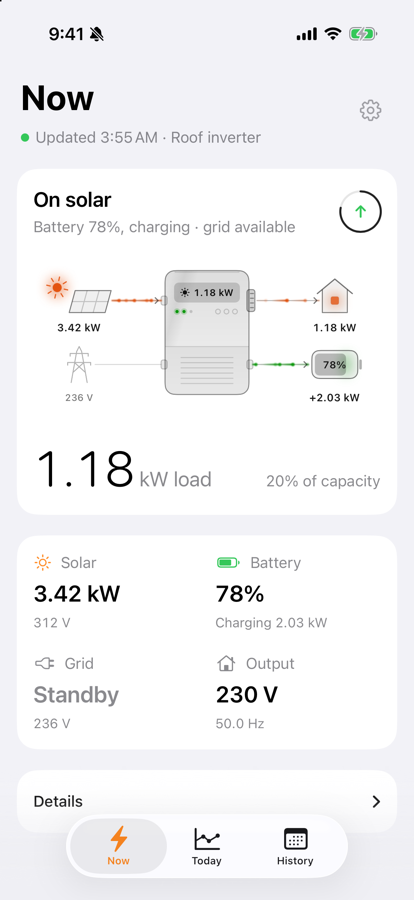
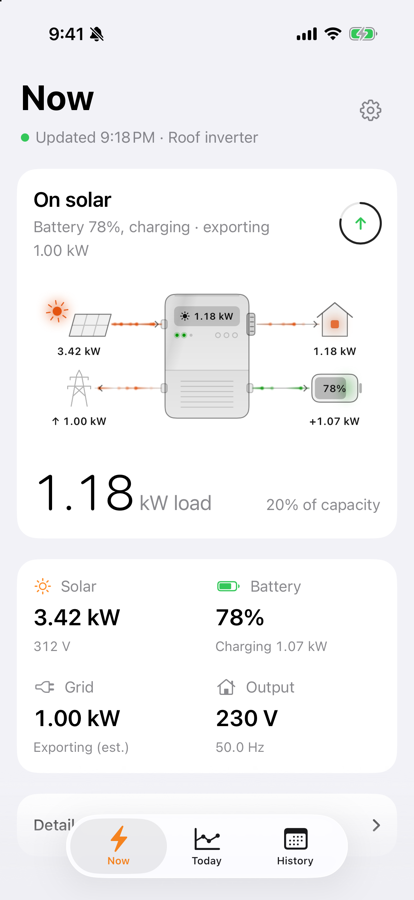
Give the README a section for each of the Mac, iOS and Android apps
Each has its own screenshots, requirements and build steps. The Mac details from the old Mac README move to docs/macos.md, and the iOS and Android screenshots are retaken with the new icons and grid export.

diff --git a/README.md b/README.md
@@ -1,10 +1,61 @@
-# Inverterly for Android and iOS
+# Inverterly
 
-> **Fork notice:** Inverterly is a personal fork of [InverterBar](https://github.com/ahkamboh/inverterbar) by Ali Hamza Kamboh, tailored for my own use. This branch adds an Android app and an iOS app. Neither is on a store. The iOS app you build onto your own device with Xcode. For Android there is a signed APK on the [Releases page](https://github.com/umarz317/inverterly/releases) to install directly (Android shows an "unknown source" prompt because it is not from the Play Store), or you can build it with Gradle. This fork is not affiliated with or supported by the original author; please report issues with it here, not upstream.
+> **Fork notice:** Inverterly is a personal fork of [InverterBar](https://github.com/ahkamboh/inverterbar) by Ali Hamza Kamboh, tailored for my own use. It adds in-app sign-in, an inverter switcher for accounts with more than one, daily and monthly solar, grid and load history, grid export estimates, and an iOS app and an Android app next to the original Mac app. The Mac app's release builds are signed with my Developer ID and notarized by me, [umarz317](https://github.com/umarz317). The iOS app is not on the App Store: you build it onto your own device. The Android app is not on the Play Store: there is a signed APK on the Releases page. This fork is not affiliated with or supported by the original author; please report issues with it here, not upstream.
 
-An Android app (Android 8 or later) and an iOS app (iOS 17 or later) that show a Voltronic-type solar inverter live: what the panels are making, what the house is drawing, where the battery stands, and whether the grid is up.
+Apps that show a Voltronic-type solar inverter live: what the panels are making, what the house is drawing, where the battery stands, and whether the grid is up. This repository holds all three, built from the same cloud client in Swift and Kotlin:
 
-### Android
+| | Platform | What it is | Install | Details |
+|---|---|---|---|---|
+| [macOS](#macos) | macOS 14+ | A menu bar panel | Build with a script, or the DMG on [Releases](https://github.com/umarz317/inverterly/releases) | [docs/macos.md](docs/macos.md) |
+| [iOS](#ios) | iOS 17+ | A three-tab phone app | Build onto your device with Xcode | [iOS/README.md](iOS/README.md) |
+| [Android](#android) | Android 8+ | A three-tab phone app | Signed APK on [Releases](https://github.com/umarz317/inverterly/releases), or build with Gradle | [android/README.md](android/README.md) |
+
+These inverters are sold as Axpert, MPP Solar and under many other names. They all report to the vendor cloud read by the WatchPower, SolarPower and DessMonitor phone apps, and Inverterly reads that cloud with the account you already have.
+
+It only reads. No code path in any app can change an inverter setting. This is an unofficial project, not affiliated with Voltronic, DessMonitor, ShineMonitor or any inverter brand.
+
+Every app needs an inverter with a Wi-Fi logger that already reports to DessMonitor, WatchPower or SolarPower, and the login you use in that phone app.
+
+## macOS
+
+<p align="center">
+  <img src="docs/inverterly.gif" width="380" alt="The Inverterly panel on the Mac, on solar, on battery and on grid (made-up readings)">
+</p>
+
+A menu bar item that shows the battery percent, load or solar, and drops a panel with the animated energy flow, today's chart, daily and monthly history, and a details list.
+
+**Requirements:** macOS 14 or later and Xcode's command line tools.
+
+**Build and run**, from the repository root:
+
+```bash
+./Scripts/build-app.sh install     # builds Inverterly.app, copies it to ~/Applications and opens it
+swift run Inverterly               # or run it straight from source
+```
+
+Without `install` the script only builds into `dist/`. A signed and notarized DMG of each Mac release (the `v0.1.x` releases) is on the [Releases page](https://github.com/umarz317/inverterly/releases); `./Scripts/make-dmg.sh` builds one yourself.
+
+Signing in, the account file, options and history are in [docs/macos.md](docs/macos.md).
+
+## iOS
+
+<p align="center">
+  <img src="docs/ios/now.png" width="240" alt="The iOS Now tab: live reading, energy flow and tiles (made-up readings)">
+  <img src="docs/ios/today.png" width="240" alt="The iOS Today tab: energy mix, power chart and battery (made-up readings)">
+  <img src="docs/ios/history.png" width="240" alt="The iOS History tab: monthly mix, a bar per day and the list (made-up readings)">
+</p>
+
+**Requirements:** iOS 17 or later, Xcode 16 or later, and an Apple development team for signing. A free personal team works; its builds stop opening after seven days and have to be installed again.
+
+**Build and run:** open `iOS/Inverterly.xcodeproj`, choose the **Inverterly iOS** scheme, set your own team under Signing & Capabilities (the project ships with it blank) and run it on a simulator or your device. With a free personal team, also change the bundle identifier to your own.
+
+```bash
+open iOS/Inverterly.xcodeproj
+```
+
+The iOS app builds the same Swift package as the Mac app (`InverterCore` and `InverterUI`), so `swift build` and `swift test` at the repository root cover its shared code too. Installing on a real device, from the command line, and the debug demo mode are in [iOS/README.md](iOS/README.md).
+
+## Android
 
 <p align="center">
   <img src="docs/android/now.png" width="240" alt="The Android Now tab: live reading, energy flow and tiles (made-up readings)">
@@ -12,82 +63,83 @@ An Android app (Android 8 or later) and an iOS app (iOS 17 or later) that show a
   <img src="docs/android/history.png" width="240" alt="The Android History tab: monthly mix, a bar per day and the list (made-up readings)">
 </p>
 
-### iOS
+**Requirements:** Android 8.0 or later. To build it, JDK 17 and the Android SDK (platform 36); Android Studio has both.
 
-<p align="center">
-  <img src="docs/ios/inverterly-ios.gif" width="260" alt="The Inverterly iOS app: Now, Today and History tabs (made-up readings)">
-</p>
+**Install the APK:** each Android release (`android-v<version>`) on the [Releases page](https://github.com/umarz317/inverterly/releases) has a signed `Inverterly-<version>.apk`. Open it on the phone and allow installs from that source when Android asks. Play Protect may say it comes from an unknown developer, because it is not on the Play Store; "Install anyway" continues. A newer version installs over an older one and keeps the login.
 
-These inverters are sold as Axpert, MPP Solar and under many other names. They all report to the vendor cloud read by the WatchPower, SolarPower and DessMonitor phone apps, and Inverterly reads that cloud with the account you already have.
+**Build and run:** open the `android` folder in Android Studio and run the **app** configuration, or with a phone connected:
 
-It only reads. No code path in the app can change an inverter setting. This is an unofficial project, not affiliated with Voltronic, DessMonitor, ShineMonitor or any inverter brand.
+```bash
+cd android
+./gradlew :app:installDebug
+```
 
-## What it shows
+The Android app is a Kotlin port of the Swift code, with its own tests (`./gradlew :app:testDebugUnitTest`). Release signing, the demo mode and the raw readings screen are in [android/README.md](android/README.md).
+
+## What the apps show
 
 - **Now**: whether the house runs on solar, battery or grid, the animated energy flow, the load against the inverter's rating, and a tile each for solar, battery, grid and output. Details (voltages, currents, frequency, logger status) are underneath.
-- **Today**: how much of today's energy came from the sun, with solar, grid and load totals; the day's power curve, which you can drag across to read any moment; the day's peaks; and the battery's charge through the day.
+- **Today**: how much of today's energy came from the sun, with solar, grid, load and export totals; the day's power curve, which you can drag across to read any moment; and the battery's charge through the day.
 - **History**: Days for this month or Months going back, with the period's energy mix, a bar per day or month (drag to pick one), and the list.
-- **Settings** (the gear): pick the inverter when the account has more than one, choose the illustration (iOS), and sign out.
+- **Settings**: pick the inverter when the account has more than one, choose the illustration, and sign out.
 
-<p align="center">
-  <img src="docs/ios/now.png" width="240" alt="The Now tab (made-up readings)">
-  <img src="docs/ios/today.png" width="240" alt="The Today tab (made-up readings)">
-  <img src="docs/ios/history.png" width="240" alt="The History tab (made-up readings)">
-</p>
-
-The dot under each title is green while readings are fresh, orange once the logger has gone quiet, and grey before the first reading. Pull down on any tab to refresh. The app reads while it is in front and stops when it is not; it has no background refresh or widgets.
-
-## Requirements
-
-- Android 8.0 or later, JDK 17 and the Android SDK to build the Android app, or
-- iOS 17 or later.
-- Xcode 16 or later to build it.
-- An Apple development team for signing. A free personal team works; its builds stop opening after seven days and have to be installed again.
-- An inverter with a Wi-Fi logger that already reports to DessMonitor, WatchPower or SolarPower, and the login you use in that phone app.
-
-## Build and run
-
-**Android:** open the `android` folder in Android Studio and run it, or `cd android && ./gradlew :app:installDebug` with a phone connected. See [android/README.md](android/README.md).
-
-**iOS:** open `iOS/Inverterly.xcodeproj`, choose the **Inverterly iOS** scheme, set your own signing team under Signing & Capabilities (the project ships with it blank) and run it on a simulator or your device. With a free personal team, also change the bundle identifier to your own.
-
-To install on a real device, with every step and fix, see [iOS/README.md](iOS/README.md).
+The phone apps show these as three tabs; the Mac panel puts them in one panel with sections that open in place. The dot under each phone title is green while readings are fresh, orange once the logger has gone quiet, and grey before the first reading. The phone apps read while they are in front and stop when they are not; there is no background refresh or widget.
 
 ## Sign in
 
-Use the username and password from your inverter's monitoring phone app. The app tries each of the three cloud identities in turn and keeps the one that works.
+Use the username and password from your inverter's monitoring phone app. Each app tries the three cloud identities in turn and keeps the one that works.
 
-The password goes into the iOS Keychain (on Android, an Android Keystore key encrypts it). The username and app identity are saved in the app's own container, and the login session next to it. With **Remember me** off, the account, session and saved history are removed the next time the app is launched, so it asks again. The password never appears in an error message or a log.
+- **Mac:** the password goes into the macOS Keychain, or into a private `.env` file if you turn that off. See [docs/macos.md](docs/macos.md).
+- **iOS:** the password goes into the iOS Keychain. The username and app identity are saved in the app's own container, with the login session next to it.
+- **Android:** the password is encrypted with a key held in the Android Keystore; the rest sits in the app's private storage, which is excluded from backup.
+
+On the phones, with **Remember me** off, the account, session and saved history are removed the next time the app is launched, so it asks again. The password never appears in an error message or a log.
 
 ## How fresh the numbers are
 
-The logger reports to the cloud about every five minutes, so that is the real resolution. The header shows when it last reported, and a banner appears after fifteen quiet minutes. The vendor's server can take ten seconds or more to answer, so the first reading after launch may be slow.
+The logger reports to the cloud about every five minutes, so that is the real resolution. The header shows when it last reported, and a banner appears after fifteen quiet minutes. The vendor's server can take ten seconds or more to answer, so the first reading after launch may be slow; the phone apps show a loading screen until it arrives.
 
-Each day in History is added up from the logger's 5-minute readings, which matches the cloud's own daily solar figure to within about 1%. A finished day is read once and kept on the phone; only today is read again.
+Each day in History is added up from the logger's 5-minute readings, which matches the cloud's own daily solar figure to within about 1%. A finished day is read once and kept on the device; only today is read again.
 
-Grid power is not in the vendor's data for this kind of inverter. The app estimates it as load plus battery charging, minus solar and battery discharge.
+Grid power is not in the vendor's data for this kind of inverter. The apps estimate it as load plus battery charging, minus solar and battery discharge.
 
 ## Grid export
 
-An inverter that reports itself as a "Grid Tie" can send surplus power to the grid, but the cloud has no export reading for it: its grid power is always 0. So the app estimates it as the power the panels make beyond the load and the battery's charging, less about 5% for conversion losses, and only with grid voltage present. A small surplus (60 W or less) is treated as measurement error. Summed over the logger's 5-minute readings it gives kWh exported per day and month.
+An inverter that reports itself as a "Grid Tie" can send surplus power to the grid, but the cloud has no export reading for it: its grid power is always 0. So the apps estimate it as the power the panels make beyond the load and the battery's charging, less about 5% for conversion losses, and only with grid voltage present. A small surplus (60 W or less) is treated as measurement error. Summed over the logger's 5-minute readings it gives kWh exported per day and month.
 
 It shows as an exporting Grid tile and a reversed grid flow on Now, an Export total on Today and History, and Export on each History row. Models that report "Off Grid Tie", or no type at all, never show export. It is an estimate: check it against your meter before relying on it for billing. Days saved before this was added are read from the cloud once more to fill it in.
 
 ## Documentation
 
-- [android/README.md](android/README.md): the Android app, built from the same cloud client in Kotlin.
-- [iOS/README.md](iOS/README.md): installing on your device, demo mode, and how the app is built.
-- [docs/API.md](docs/API.md): the cloud API: hosts, login and request signing, each route the app uses, and the settings routes it deliberately does not send.
+- [docs/macos.md](docs/macos.md): the Mac app: install, the account file, options and history.
+- [iOS/README.md](iOS/README.md): installing on your iPhone, demo mode, and how the app is built.
+- [android/README.md](android/README.md): the Android app, release signing and the Kotlin port.
+- [docs/API.md](docs/API.md): the cloud API: hosts, login and request signing, each route the apps use, and the settings routes they deliberately do not send.
 - [docs/LIBRARY.md](docs/LIBRARY.md): using `InverterCore` from your own Swift code.
+- [docs/examples/read_inverter.py](docs/examples/read_inverter.py): a 60-line read-only Python client.
 
 ## Code layout
 
-- `iOS`: the Xcode project and thin app shell. See [iOS/README.md](iOS/README.md).
-- `Sources/InverterUI/Phone`: the iOS screens, compiled only for iOS.
-- `Sources/InverterUI`: the store, illustrations and shared views.
-- `Sources/InverterCore`: cloud client, request signing, parsing and the `EnergySnapshot` model. No UI.
+```
+Sources/InverterCore      cloud client, request signing, parsing, the EnergySnapshot model (Swift, no UI)
+Sources/InverterUI        shared views and illustrations; the Mac panel and status item
+Sources/InverterUI/Phone  the iOS screens, compiled only for iOS
+Sources/Inverterly        the Mac app's entry point
+Sources/InverterProbe     prints one live reading from the terminal
+Scripts                   builds the Mac app and its DMG
+iOS                       the Xcode project and thin app shell for iOS
+android                   the Android app (Kotlin, Jetpack Compose)
+Tests, Tools, docs        Swift tests, helper scripts, documentation and screenshots
+```
 
-Run the tests with `swift test`. The fixtures are real answers from one inverter with serial numbers and ids replaced. `Tools/scan-secrets.py` checks that none of your account's values has ended up in the repository; run it before pushing a fork.
+## Tests
+
+| App | Command | Covers |
+|---|---|---|
+| macOS and iOS (shared Swift) | `swift test` | cloud client, signing, parsing, history, grid export, the read-only guard, and the panel's state |
+| Android | `cd android && ./gradlew :app:testDebugUnitTest` | the Kotlin port: signing vectors, parser, export, the read-only guard |
+
+The fixtures are real answers from one inverter with serial numbers and ids replaced. `Tools/scan-secrets.py` checks that none of your account's values (username, password, serials, session token) has ended up in the repository; run it before pushing a fork.
 
 ## Licence
 

diff --git a/docs/macos.md b/docs/macos.md
@@ -1,0 +1,123 @@
+# Inverterly for macOS
+
+The menu bar app. It shows the same Voltronic-type inverter cloud as the iOS and Android apps, as a panel that drops from the menu bar.
+
+<p align="center">
+  <img src="inverterly.gif" width="380" alt="The Inverterly panel on solar, on battery and on grid (made-up readings)">
+</p>
+
+The menu bar shows the battery percent, load, solar, or solar and grid together, each with its own icon; or just the app's glyph, a sun over a wave that turns to a moon when the panels make nothing. Click it for an animated picture of the energy flow, the load, tiles for solar, battery, grid and output, today's chart of solar, grid and load with totals so far, daily and monthly history, and a details list.
+
+Like the other apps it only reads. No code path can change an inverter setting.
+
+## Requirements
+
+- macOS 14 or later, and Xcode's command line tools to build it.
+- An inverter with a Wi-Fi logger that already reports to DessMonitor, WatchPower or SolarPower.
+- The login you use in that phone app.
+
+## Install
+
+From the repository root:
+
+```bash
+./Scripts/build-app.sh install
+```
+
+This builds a release binary, wraps it as `Inverterly.app`, copies it to `~/Applications` and opens it. Without `install` it only builds into `dist/`. The app is signed ad hoc, which is enough to run on the Mac that built it.
+
+A signed and notarized `Inverterly-<version>.dmg` for each Mac release is on the [Releases page](https://github.com/umarz317/inverterly/releases) (the `v0.1.x` releases).
+
+### Release DMG
+
+```bash
+./Scripts/make-dmg.sh
+```
+
+This builds `dist/Inverterly-<version>.dmg` with the app signed by your Developer ID Application identity (the first one in your keychain, or `INVERTERLY_CODESIGN_IDENTITY`) using the hardened runtime, and signs the DMG too. To notarize and staple it, store notarytool credentials once with `xcrun notarytool store-credentials <name>` and run with `INVERTERLY_NOTARY_PROFILE=<name>`. Without notarization, other Macs show a Gatekeeper warning on first open.
+
+## Run from source
+
+```bash
+swift run Inverterly
+```
+
+Print one live reading in the terminal, with the inverters on the account and yesterday's and today's totals:
+
+```bash
+swift run InverterProbe
+```
+
+## Sign in
+
+Click the menu bar item and enter your phone-app username and password. Inverterly works out which of the three apps the account belongs to and starts reading.
+
+To switch accounts, open the three-dot menu and choose **Sign out**.
+
+With **Save password in Keychain** on (the default), the password goes into your macOS Keychain and `~/.config/inverterly/.env` keeps only the username and app. With it off, the password is saved in that file, readable only by you. A password in the file wins; with none there, the app looks in the Keychain. The login session is kept in `~/Library/Application Support/Inverterly/session.json`, also private. The password never appears in an error message or a log. Sign out removes the account from both the file and the Keychain.
+
+Coming from InverterBar: on first launch Inverterly moves `~/.config/inverterbar` and `~/Library/Application Support/InverterBar` to the new names, so the saved login and history carry over. `INVERTERBAR_ENV` is still read. Settings from the menu (illustration, menu bar choice, open at login) start fresh.
+
+### Configure by hand
+
+You can write the file yourself instead (from the repository root):
+
+```bash
+mkdir -p ~/.config/inverterly
+cp .env.example ~/.config/inverterly/.env
+chmod 600 ~/.config/inverterly/.env
+```
+
+```
+SHINEMONITOR_USER=your-login
+SHINEMONITOR_PASSWORD=your-password
+SHINEMONITOR_APP=dessmonitor
+```
+
+- `SHINEMONITOR_PASSWORD` can be left out if the password is in the Keychain (service `com.loopbreak.inverterly`, account = your username).
+- `SHINEMONITOR_APP` is `dessmonitor`, `watchpower` or `solarpower`. WatchPower and DessMonitor use the DessMonitor server over https and have been checked with live accounts. SolarPower uses plain http and has not been tested.
+- `SHINEMONITOR_BASE_URL=http://android.shinemonitor.com/public/` selects the legacy server for an older WatchPower account.
+- `SHINEMONITOR_PN` and `SHINEMONITOR_SN` choose the starting device when the account has more than one; the Inverter menu overrides them.
+
+The app looks for the file in this order:
+
+1. the path in the `INVERTERLY_ENV` environment variable
+2. the path saved with `defaults write com.loopbreak.inverterly envPath "/path/to/.env"`
+3. `~/.config/inverterly/.env`
+4. `~/Documents/inverter-control/.env`, if the file above does not exist
+
+If the file is in Documents, Desktop or Downloads, macOS asks once whether Inverterly may read that folder. If you say no, the panel reports that it cannot find the file; change the answer in System Settings under Privacy & Security, Files and Folders.
+
+## History
+
+Open **History** in the panel for how much solar you made, how much came from the grid and how much you used (the load), in kWh. **Days** lists each day of this month with a month total; **Months** adds up every month the cloud still has.
+
+Each day is added up from the logger's 5-minute readings, which matches the cloud's own daily solar figure to within about 1%. Grid is estimated, as in the details list. A finished day is read once and kept in `~/Library/Application Support/Inverterly/history.json`; only today is read again. Sign out deletes it.
+
+## Options
+
+The three-dot menu has:
+
+- **Inverter**: when the account has more than one, which inverter the panel and menu bar show. Each keeps its own history.
+- **Illustration**: the animated picture in the panel. Inverter, Flow map or House.
+- **Menu bar shows**: battery percent, load, solar, solar and grid together, or the icon alone.
+- **Animate menu bar icon**: the icon moves briefly when a new reading arrives. Turn it off for a still icon.
+- **Open at login**
+- **Sign out**
+
+## How fresh the numbers are
+
+The logger reports to the cloud about every five minutes, so that is the real resolution. The app asks once a minute while the panel is open and every two and a half minutes otherwise.
+
+The header shows when the logger last reported, and a banner appears after fifteen quiet minutes. If the logger has been quiet that long, or nothing could be fetched for ten minutes, the menu bar item drops its number and dims, so an old percentage never looks current.
+
+The vendor's server can take ten seconds or more to answer, so the first reading after launch may be slow.
+
+Left running, it uses about 0.17% of one CPU core and 17 MB of memory with the panel closed (measured on an M1 Pro), and about 3% of a core while the panel is open and animating.
+
+## Code
+
+- `Sources/Inverterly`: the app entry point.
+- `Sources/InverterUI`: the status item and panel window (`StatusItemController`, `Panel`), the menu bar icon, and the illustrations in `Hero/`. Each illustration is one `Canvas` that is a pure function of the reading and the time. Shared with the iOS app, which adds its screens in `Sources/InverterUI/Phone`.
+- `Sources/InverterCore`: the cloud client, shared with the iOS app.
+- `Sources/InverterProbe`: prints one live reading, the inverters on the account and two days of totals.
